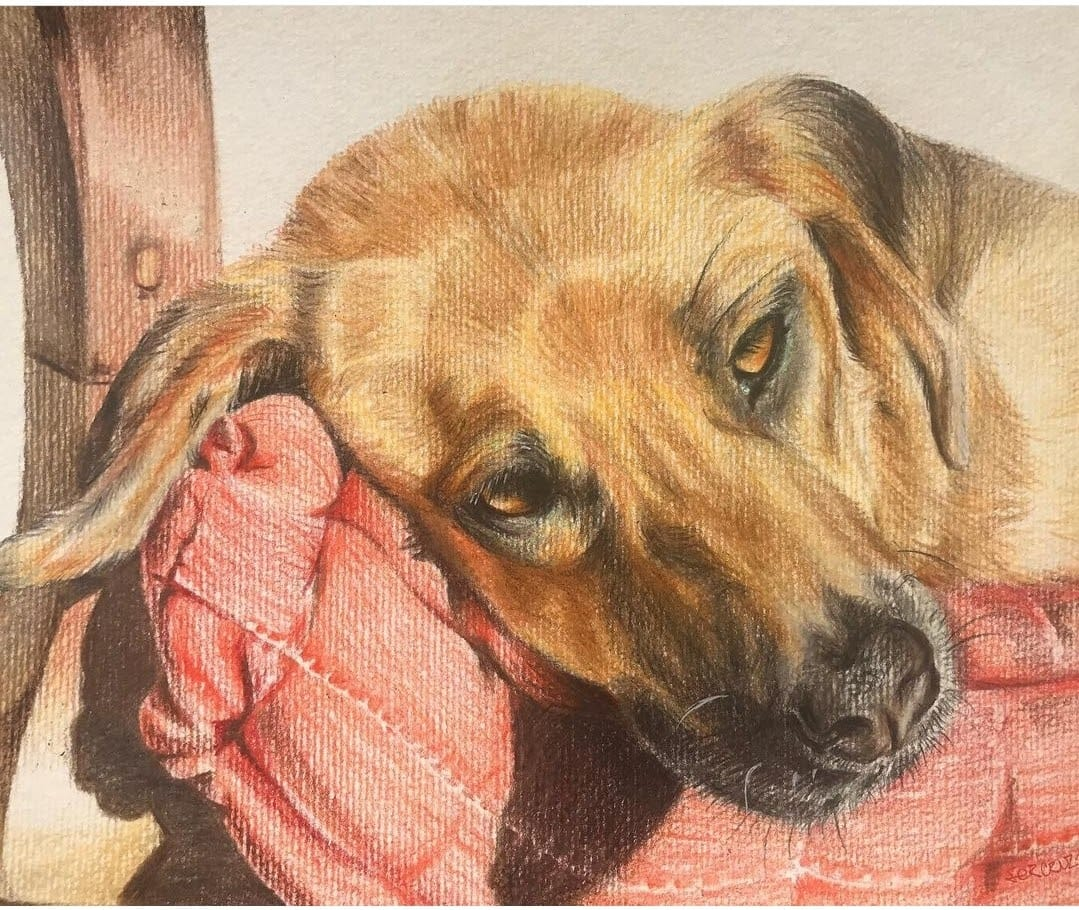
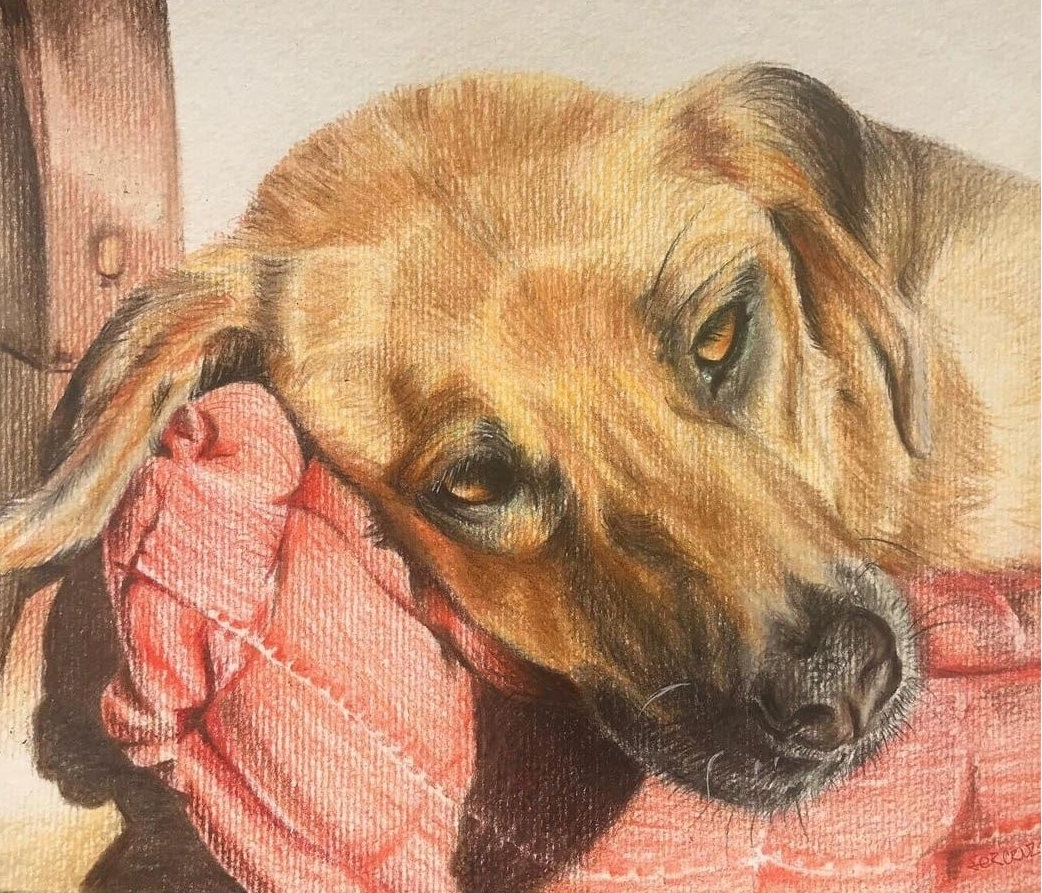
23

diff --git a/src/components/Categories.jsx b/src/components/Categories.jsx
@@ -2,7 +2,7 @@ import React from "react";
 import muralism from "../assets/horizontal1.jpeg";
 import tattoo from "../assets/foto2.jpeg";
 import waterColors from "../assets/acuarelas/ave.jpeg";
-import portraits from "../assets/foto3.jpeg";
+import portraits from "../assets/foto4.jpeg";
 import { Link } from "react-router-dom";
 
 const slides = [muralism, tattoo, waterColors, portraits];
